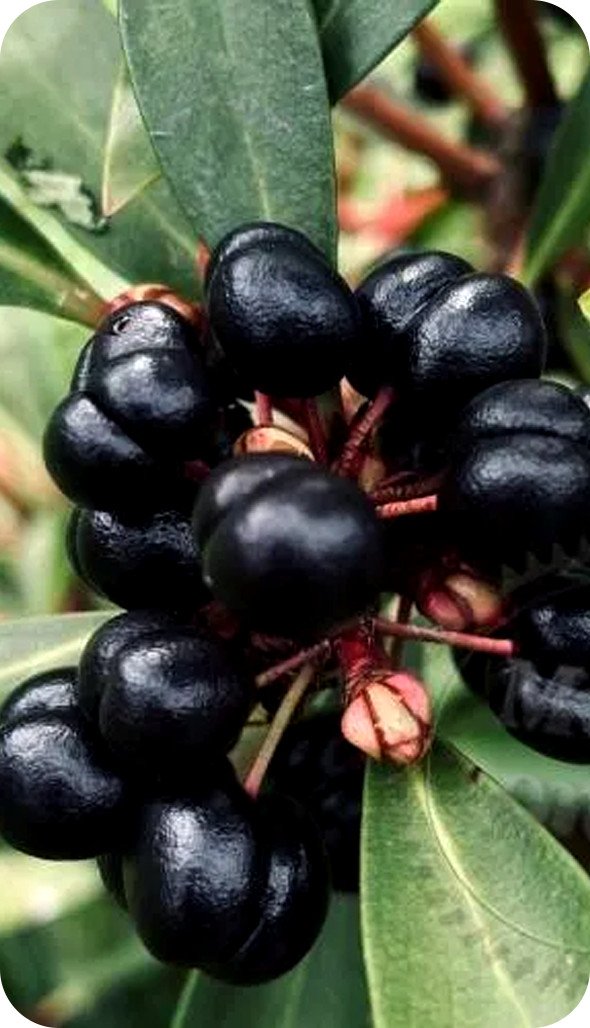
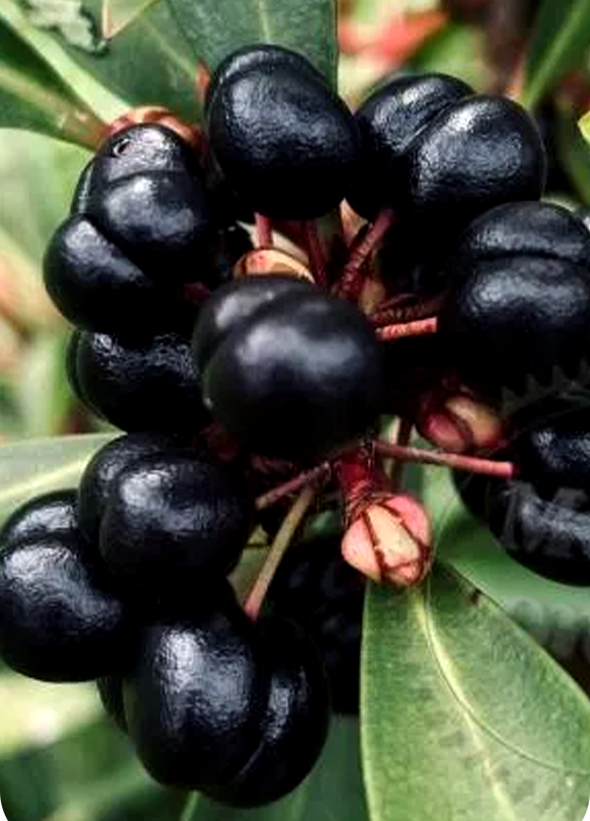
Tazman Compounds Added

diff --git a/client/src/components/tazman/TazmanScience.jsx b/client/src/components/tazman/TazmanScience.jsx
@@ -1,0 +1,46 @@
+
+const TazmanScience = () => {
+    return (
+        <>
+            <section className="
+                pr-[1rem] sm:pr-[5%] lg:pr-[7%]
+                py-[4rem]
+                flex justify-between items-center flex-wrap
+            ">
+                <div className="w-[45%]">
+                    <img
+                        src="/images/tazman/tazman-science.png"
+                        alt="Tazman Science"
+                        loading="lazy"
+                        className="
+                            w-full
+                            rounded-r-[15px] sm:rounded-r-[20px] lg:rounded-r-[30px] xl:rounded-r-[35px] 2xl:rounded-r-[40px]
+                        "
+                    />
+                </div>
+                <div className="w-[48%]">
+                    <h4 className="
+                        text-[1.8rem] sm:text-[1rem] lg:text-[3.2rem] xl:text-[3.6rem] 2xl:text-[4rem] leading-[1]
+                    ">
+                        The Science: <br /> How It Works
+                    </h4>
+                    <p className="
+                        text-[1.1rem] sm:text-[1.2rem] lg:text-[0.95rem] xl:text-[1.1rem] 2xl:text-[1.2rem]
+                        mt-[1rem] sm:mt-[1rem] lg:mt-[1.8rem] xl:mt-[1.9rem] 2xl:mt-[2rem]
+                        text-[#363636]
+                    ">
+                        TRPV1 (Transient Receptor Potential Vanilloid 1) is a channel found in skin keratinocytes and sensory neurons. In sensitive and inflamed skin, TRPV1 becomes overactive triggering pro-inflammatory cytokine release, burning sensations, and itching. The more it is activated, the more inflamed the skin becomes,
+                        creating a vicious cycle. <br /> <br />
+                        <b className="block mb-[1rem]">
+                            Tazman Pepper™ breaks this cycle through a three-step mechanism:
+                        </b>
+                        Inhibits TRPV1 channel activation Reduces the release of inflammatory mediators (IL-1α and PGE₂)
+                        Relieves the skin - calming redness, itching, and burnings
+                    </p>
+                </div>
+            </section>
+        </>
+    )
+}
+
+export default TazmanScience

diff --git a/client/src/components/tazman/TazmanStory.jsx b/client/src/components/tazman/TazmanStory.jsx
@@ -2,8 +2,40 @@
 const TazmanStory = () => {
     return (
         <>
-            <section>
-
+            <section className="
+                px-[1rem] sm:px-[5%] lg:px-[7%]
+                py-[4rem]
+                flex justify-between items-center flex-wrap
+            ">
+                <div className="w-[55%]">
+                    <h2 className="
+                        text-[1.8rem] sm:text-[1rem] lg:text-[3.2rem] xl:text-[3.6rem] 2xl:text-[4rem] leading-[1]
+                    ">
+                        TAZMAN PEPPER™
+                    </h2>
+                    <span className="
+                        text-[1.1rem] sm:text-[1.2rem] lg:text-[1.5rem] xl:text-[1.6rem] 2xl:text-[1.7rem]
+                        mt-[1rem] sm:mt-[1.5rem] lg:mt-[0.8rem] xl:mt-[0.9rem] 2xl:mt-[1rem]
+                        text-[#363636] block
+                    ">
+                        The Story Behind <br /> the Ingredient
+                    </span>
+                    <p className="
+                        text-[1.1rem] sm:text-[1.2rem] lg:text-[0.95rem] xl:text-[1.1rem] 2xl:text-[1.2rem]
+                        mt-[1rem] sm:mt-[1rem] lg:mt-[1.8rem] xl:mt-[1.9rem] 2xl:mt-[2rem]
+                        text-[#363636]
+                    ">
+                        Deep in the cold, rugged mountains of Tasmania Island, a rare botanical has been used by Australia’s Aboriginal people for centuries. Known as “mourao”, the Tasmanian pepper berry (Tasmannia lanceolata) was traditionally prized for calming inflammation. Today, this ancestral bushfood is at the heart of our most advanced formulation for sensitive, atopic, and eczema-prone skin.
+                    </p>
+                </div>
+                <div className="w-[30%]">
+                    <img
+                        src="/images/tazman/tazman-story.png" 
+                        alt="Tazman Stoyry" 
+                        loading="lazy"
+                        className="w-full rounded-[15px] sm:rounded-[20px] lg:rounded-[20px] xl:rounded-[25px] 2xl:rounded-[30px]"
+                    />
+                </div>
             </section>
         </>
     )

diff --git a/client/src/components/tazman/ActiveCompounds.jsx b/client/src/components/tazman/ActiveCompounds.jsx
@@ -1,0 +1,53 @@
+const compoundsList = [
+    {
+        title: "Polygodial",
+        desc: "Anti-inflammatory, antimicrobial, and soothing",
+    },
+    {
+        title: "Anthocyanins",
+        desc: "Antioxidants that protect against free radicals",
+    },
+    {
+        title: "Rutin",
+        desc: "Anti-inflammatory; strengthens capillaries (3× more than blueberries)",
+    },
+    {
+        title: "Magnesium",
+        desc: "Supports cell regeneration and energy",
+    },
+    {
+        title: "Zinc",
+        desc: "Helps reduce acne and calm irritation",
+    },
+]
+const ActiveCompounds = () => {
+    return (
+        <>
+            <section className="
+                px-[1rem] sm:px-[5%] lg:px-[7%]
+                py-[1rem]
+            ">
+                <h5 className="
+                    text-[1.8rem] sm:text-[1rem] lg:text-[3.2rem] xl:text-[3.6rem] 2xl:text-[4rem] leading-[1]
+                ">
+                    Active Compounds in the Berry
+                </h5>
+                <div className="mt-[3rem]">
+                    {compoundsList.map((item, index) => {
+                        return(
+                            <p key={index} className="
+                                text-[1.1rem] sm:text-[1.2rem] lg:text-[0.95rem] xl:text-[1.1rem] 2xl:text-[1.2rem]
+                                mb-[0.5rem] sm:mb-[0.5rem] lg:mb-[0.3rem] xl:mb-[0.4rem] 2xl:mb-[0.5rem]
+                                text-[#363636]
+                            ">
+                                <b>{item.title}</b> - {item.desc}
+                            </p>
+                        )
+                    })}
+                </div>
+            </section>
+        </>
+    )
+}
+
+export default ActiveCompounds

diff --git a/client/src/components/tazman/WhyTazman.jsx b/client/src/components/tazman/WhyTazman.jsx
@@ -1,0 +1,27 @@
+
+const WhyTazman = () => {
+    return (
+        <>
+            <section className="
+                px-[1rem] sm:px-[5%] lg:px-[7%]
+                py-[1rem]
+                flex flex-col items-center
+            ">
+                <h3 className="
+                    text-[1.8rem] sm:text-[1rem] lg:text-[3.2rem] xl:text-[3.6rem] 2xl:text-[4rem] leading-[1] text-center
+                ">
+                    Why Tazman Pepper™ for <br /> Atopic & Eczema Skin?
+                </h3>
+                <p className="
+                    text-[1.1rem] sm:text-[1.2rem] lg:text-[0.95rem] xl:text-[1.1rem] 2xl:text-[1.2rem]
+                    mt-[1rem] sm:mt-[1rem] lg:mt-[1.8rem] xl:mt-[1.9rem] 2xl:mt-[2rem]
+                    text-[#363636] text-center w-[80%]
+                ">
+                    Atopic and eczema-prone skin lives in a constant state of heightened sensitivity. Because the skin’s inflammation threshold is already lowered, everyday triggers like heat, allergens, friction, or environmental stress can ignite a cascade of discomforts redness, itching, burning, and flare-ups. Tazman PepperTM works at the root of this cycle by targeting the skin’s discomfort sensor directly.
+                </p>
+            </section>
+        </>
+    )
+}
+
+export default WhyTazman

diff --git a/client/src/pages/TazmanPepperDetails.jsx b/client/src/pages/TazmanPepperDetails.jsx
@@ -1,11 +1,17 @@
+import ActiveCompounds from "../components/tazman/ActiveCompounds"
 import TazmanBanner from "../components/tazman/TazmanBanner"
+import TazmanScience from "../components/tazman/TazmanScience"
 import TazmanStory from "../components/tazman/TazmanStory"
+import WhyTazman from "../components/tazman/WhyTazman"
 
 const TazmanPepperDetails = () => {
     return (
         <>
             <TazmanBanner />
             <TazmanStory />
+            <WhyTazman />
+            <TazmanScience />
+            <ActiveCompounds />
         </>
     )
 }
